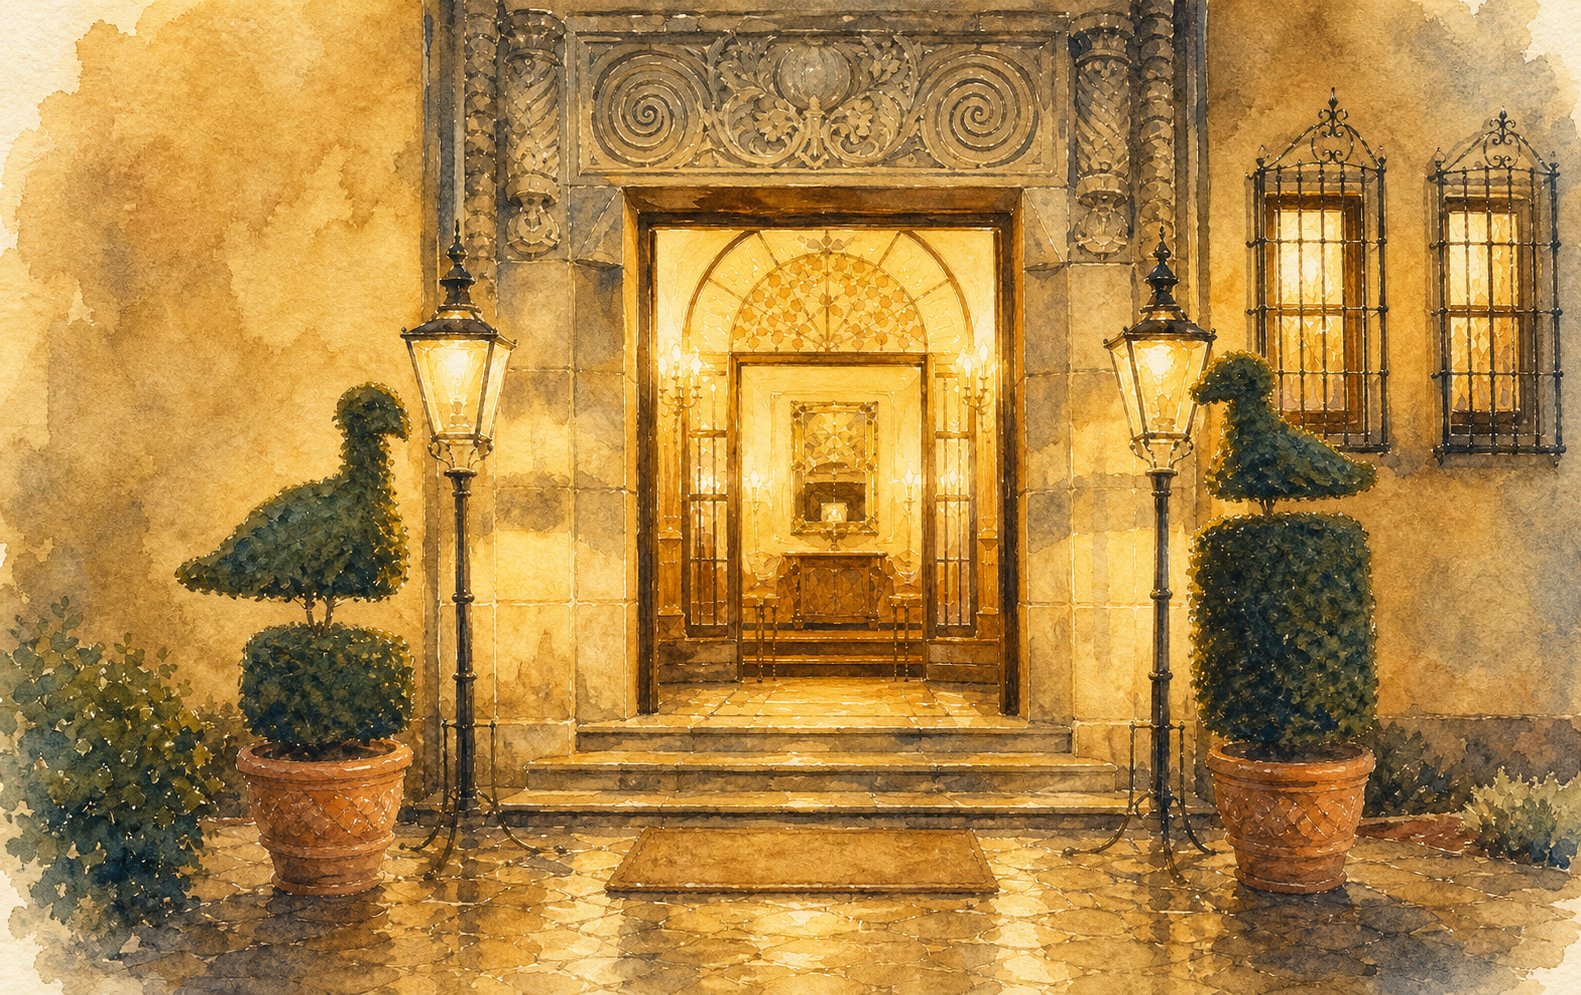
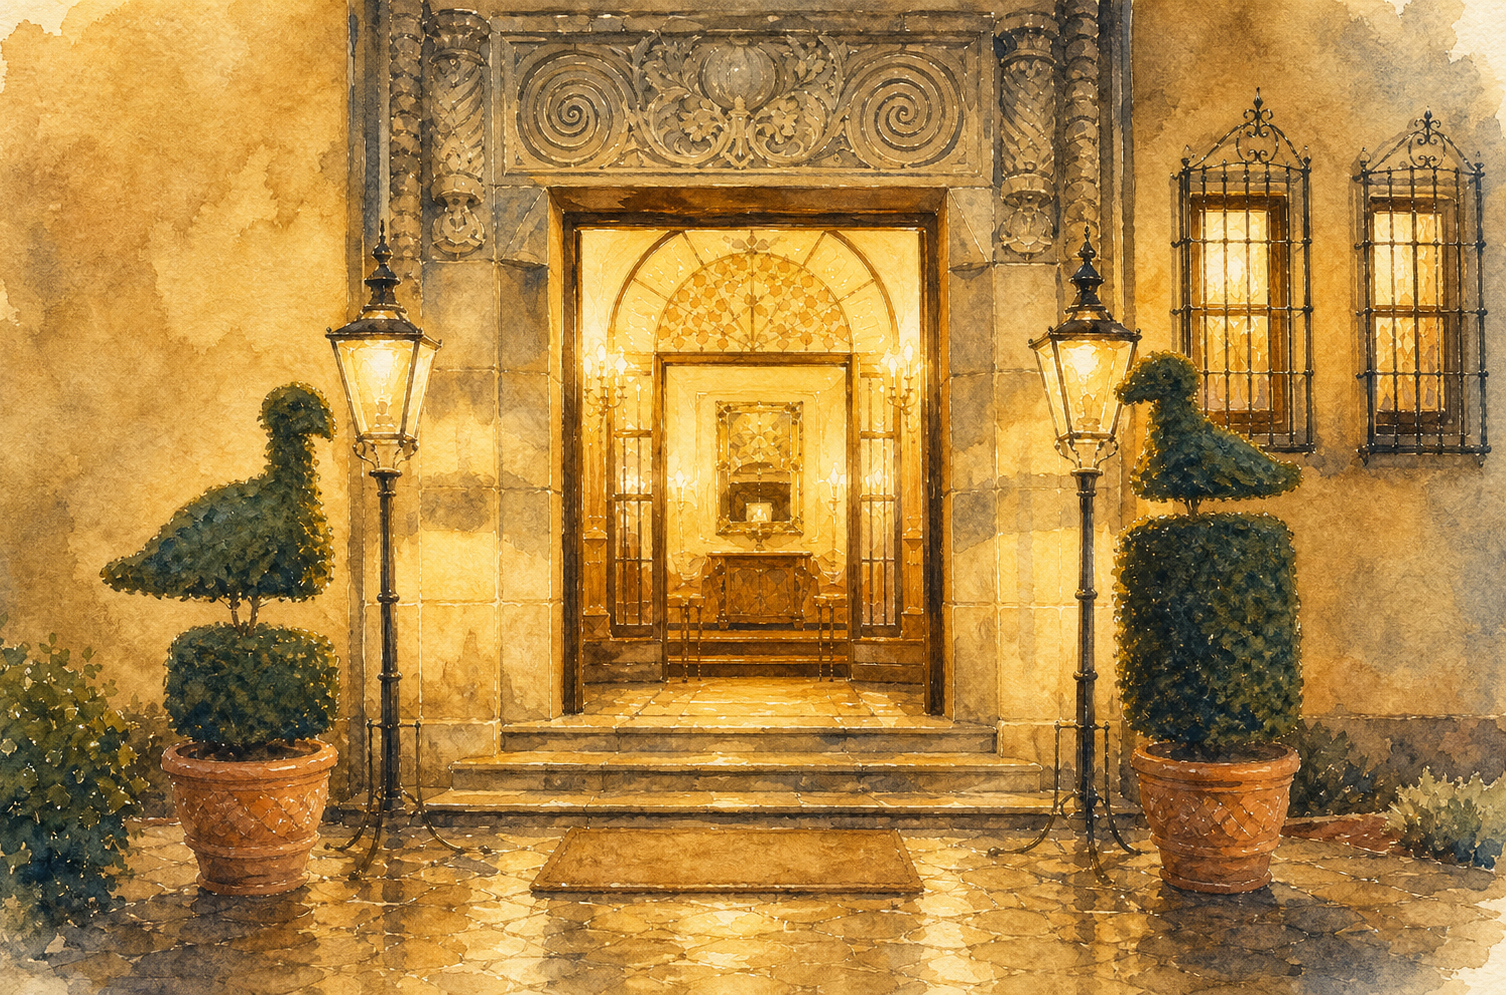
デザイン調整: 開封演出・Hero水彩の中央化・文字コントラスト・レスポンシブ等 (#12)
* style: 招待文(invitation-jp)の文字色をAbout Us本文と同じink-softに統一

* feat: 開封後のHero背景を小笠原伯爵邸エントランスの水彩に繋げ下端でベージュへグラデーション

- 封筒を開くと窓から見える伯爵邸エントランス水彩(venue-watercolor-bg)を
  そのまま Hero の背景として引き継ぎ、封筒の中の情景が招待状へ続く演出に。
  下端は--paperへグラデーションで溶かし続くセクションのベージュへ自然に接続
- settle()のcanvas焼き込み(letter-sheet固定)を廃止しCSS背景に委譲

* feat: 紙の展開モーションを廃止し開封から水彩背景へシームレス接続 / 水彩を減光

- 開封は「フラップ全開(裏地=伯爵邸水彩が見える)+カメラ引き」までで完了とし、
  以降の羊皮紙スライド/展開モーション(drawLetter)を一切描画しない(REVEAL_MS導入)
- settle()はその開封完了フレーム(封筒に水彩が見える状態)を保持したまま、
  オーバーレイをズーム(scale1.14)しつつ緩やかにフェードし hero の水彩へクロスフェード。
  ベージュの紙が水彩へ切り替わるのではなく、同じ伯爵邸の情景が招待状へ続くように接続
- .hero の水彩を減光(ベージュのベールを0.12→0.42等に強め、玄関をやわらかく)

* feat: 開封を「紙が出る」までにし展開(紙を開く)を廃止、そのまま招待状へ接続

- 封筒からの紙のスライド排出(S1=50%)は残し、以降の三つ折り展開/全画面充填は
  再生しない(REVEAL_MSを0.38→0.50に)。紙が出た直後のフレームを保持して hero へ
  ズーム付きクロスフェードし、出てきた紙とシルク(veil)がそのまま招待状へ繋がる
- シルク着地(pLand)を排出完了(0.40→0.50)に同期させ、クロスフェードで veil が重なるように

* polish: 紙排出後の招待状への繋ぎを滑らかに / シルクの動きを穏やかに

- シルク着地を短い窓(0.40-0.50)+回転0.09から、長い窓(0.34-0.50)のease-in-out+
  回転0.03へ。紙に乗って上がりながら減速着地し、激しく飛ぶ動きを解消
- 開封→招待状のクロスフェードをブルーム化(scale1.14→1.26 / ease-out 1.5s /
  transform-origin 50% 44%)し、ブワッと広がって静かに収まる動きに

* polish: 紙が出ていく動作を延長し上へ抜けつつ薄れて水彩へ溶かす

- スライドを延長(S1 0.50→0.60)、引き出し量を増(0.42→0.86*envH)し、紙が封筒から
  上へ大きく長く出ていくように。消滅が早い問題を解消
- 終盤(0.50→0.60)で paperAlpha により紙(パネル+影)をフェードし、上へ抜ける移動と
  重ねて「消える」でなく「抜けて薄れて水彩へ溶ける」動きに
- REVEAL_MSを0.50→0.60へ。シルク着地窓も0.20に広げ穏やかに定位置へ

* revert+feat: 開封モーションを元通り(紙が出る→開く)に戻し、開いた後の背景を伯爵邸フロント水彩に / 文字コントラスト改善・日付拡大
[…]

diff --git a/index.html b/index.html
@@ -230,7 +230,7 @@
   .opening-overlay.is-opening {
     pointer-events: none;
   }
-  /* 演出終了: 紙(canvas)→紙(hero背景)へソフトに受け渡す */
+  /* 演出終了: 開いた紙(canvas)から hero の水彩背景へソフトにクロスフェードで受け渡す */
   .opening-overlay.is-fading {
     opacity: 0;
     transition: opacity 0.6s ease;
@@ -368,12 +368,20 @@
      HERO — Camila Blaire layout (5 photos, exact match)
      ==================================================== */
   .hero {
-    /* 開封演出で開いた羊皮紙をそのまま背景として引き継ぐ */
+    /* 開封時に封筒の窓から見えた小笠原伯爵邸エントランスの水彩を、そのまま Hero の
+       背景として引き継ぐ(封筒の中の情景が招待状へ続くイメージ)。下端は羊皮紙のベージュ
+       (--paper)へグラデーションで溶かし、続くセクションのベージュへ自然に接続する */
     background:
-      linear-gradient(180deg, rgba(255, 250, 235, 0.30) 0%, rgba(255, 246, 224, 0.22) 52%, rgba(239, 221, 184, 0.18) 100%),
-      url('images/opening-assets/letter-sheet.png');
+      linear-gradient(180deg,
+        rgba(239, 226, 198, 0.42) 0%,
+        rgba(239, 226, 198, 0.36) 42%,
+        rgba(239, 226, 198, 0.74) 76%,
+        var(--paper) 94%),
+      url('images/venue-watercolor-bg.png');
     background-size: cover;
-    background-position: center;
+    background-position: center 24%;
+    background-repeat: no-repeat;
+    background-color: var(--paper);
     padding: clamp(36px, 4vw, 60px) clamp(24px, 5vw, 64px) clamp(40px, 4.5vw, 68px);
     text-align: center;
     overflow: hidden;
@@ -558,6 +566,23 @@
     position: relative;
     z-index: 2;
   }
+  /* 水彩背景の上でも文字が読めるよう、キャプション背後に羊皮紙色のやわらかな
+     スクリム(縁は透明へフェード)を敷いて視認性を確保する(ハードな箱にはしない) */
+  .hero-caption::before {
+    content: "";
+    position: absolute;
+    left: 50%;
+    top: 50%;
+    transform: translate(-50%, -50%);
+    width: min(760px, 94vw);
+    height: 176%;
+    z-index: -1;
+    pointer-events: none;
+    background: radial-gradient(ellipse 60% 58% at 50% 50%,
+      rgba(245, 237, 216, 0.88) 0%,
+      rgba(245, 237, 216, 0.66) 44%,
+      rgba(245, 237, 216, 0) 80%);
+  }
   .hero-caption-text {
     font-family: var(--serif);
     font-style: italic;
@@ -565,32 +590,36 @@
     font-size: clamp(18px, 1.9vw, 23px);
     color: var(--ink);
     line-height: 1.45;
+    text-shadow: 0 1px 10px rgba(245, 237, 216, 0.75);
   }
   .hero-caption-sig {
     font-family: var(--script);
     font-weight: 400;
     font-size: clamp(22px, 2.4vw, 32px);
-    color: var(--gold);
+    color: #856a38;               /* gold を少し深めて水彩上での視認性を上げる */
     margin-top: 10px;
     line-height: 1;
     letter-spacing: 0.01em;
+    text-shadow: 0 1px 10px rgba(245, 237, 216, 0.7);
   }
   .hero-date {
     margin-top: 22px;
     font-family: var(--sans);
-    font-size: 10px;
-    letter-spacing: 0.55em;
+    font-size: 11px;
+    letter-spacing: 0.5em;
     text-transform: uppercase;
-    color: var(--muted);
+    color: var(--ink-soft);       /* muted→ink-soft でコントラスト確保 */
     line-height: 2;
+    text-shadow: 0 1px 8px rgba(245, 237, 216, 0.65);
   }
   .hero-day {
-    margin-top: 12px;
+    margin-top: 16px;
     font-family: var(--serif);
     font-style: italic;
-    font-size: clamp(24px, 6vw, 34px);
+    font-size: clamp(36px, 8.5vw, 54px);   /* 大きく */
     letter-spacing: 0.08em;
     color: var(--ink);
+    text-shadow: 0 1px 12px rgba(245, 237, 216, 0.78);
   }
 
   @media (max-width: 880px) {
@@ -719,6 +748,21 @@
   .fph-2 { top: 8%;   right: 0;  width: 44%; aspect-ratio: 3 / 4; background-image: url('images/aboutus-4.jpg'); background-position: 55% 38%; filter: saturate(0.85) contrast(1.05); z-index: 2; }
   .fph-3 { top: 62%;  left: 5%;  width: 56%; aspect-ratio: 3 / 2; background-image: url('images/aboutus-2.jpg'); z-index: 3; }
   .fph-4 { top: 55%;  right: 3%; width: 36%; aspect-ratio: 3 / 4; background-image: url('images/aboutus-3.jpg'); z-index: 4; }
+  /* About us の4枚は、セクションが現れたら1枚ずつ時間差でフェードインさせる。
+     ホバーの transition(filter/box-shadow)とは別に animation で出すことで干渉を防ぐ */
+  .feature-image .fph { opacity: 0; }
+  .feature-image.visible .fph { animation: fphIn 1.05s ease both; }
+  .feature-image.visible .fph-1 { animation-delay: 0.08s; }
+  .feature-image.visible .fph-2 { animation-delay: 0.42s; }
+  .feature-image.visible .fph-3 { animation-delay: 0.76s; }
+  .feature-image.visible .fph-4 { animation-delay: 1.10s; }
+  @keyframes fphIn {
+    from { opacity: 0; transform: translateY(22px) scale(0.985); }
+    to   { opacity: 1; transform: translateY(0) scale(1); }
+  }
+  @media (prefers-reduced-motion: reduce) {
+    .feature-image .fph, .feature-image.visible .fph { animation: none; opacity: 1; }
+  }
   .feature-image-tag, .feature-image-caption { z-index: 6; }
   /* 散らし構成では羊皮紙の上に乗るため、白抜きではなくインク/ゴールドで */
   .feature-image-caption {
@@ -807,7 +851,7 @@
     font-family: var(--jp);
     font-size: 13px;
     line-height: 2.1;
-    color: var(--muted);
+    color: var(--ink-soft);
     max-width: 500px;
     margin: 0 auto;
     letter-spacing: 0.05em;
@@ -1221,6 +1265,12 @@
     line-height: 1;
     letter-spacing: 0.01em;
   }
+  /* スマホではフッターの高さを詰める(定義の後ろに置き上書きを効かせる) */
+  @media (max-width: 520px) {
+    footer { padding: 76px 24px 44px; }
+    .footer-rule { height: 44px; margin-bottom: 22px; }
+    .footer-place { margin-bottom: 26px; }
+  }
 </style>
 </head>
 <body>
@@ -1359,8 +1409,8 @@
           1927年、旧小倉藩主・小笠原伯爵によって建てられた
           スパニッシュ様式の洋館。
           石造りのアーチと中庭、緑に包まれたテラス。
-          東京の真ん中とは思えない静けさのなかで、
-          夕暮れから夜にかけてのささやかな宴を開きます。
+          日常の喧騒を忘れさせるこの特別な場所で、
+          心地よいひとときをご一緒できればと存じます。
         </p>
 
         <dl class="venue-facts">
@@ -1522,7 +1572,7 @@
 <footer>
   <div class="footer-content">
     <div class="footer-rule"></div>
-    <div class="footer-date">19<span class="dot">·</span>09<span class="dot">·</span>2026</div>
+    <div class="footer-date">2026<span class="dot">.</span>9<span class="dot">.</span>19</div>
     <div class="footer-place">Ogasawara House · Tokyo</div>
     <div class="footer-thanks">with all our love.</div>
   </div>
@@ -1957,7 +2007,7 @@
         }
         ctx.save();
         ctx.translate(fx + fw / 2, fy + fh / 2);
-        ctx.rotate(-0.09 * (1 - pLand)); // 出てくる間だけ僅かに傾け、着地で水平に
+        // シルクは常に水平のまま出す(傾けない)
         ctx.globalAlpha = silkAlpha;
         ctx.shadowColor = 'rgba(60, 46, 28, 0.22)';
         ctx.shadowBlur = 26;
@@ -2103,35 +2153,23 @@
         renderFrame(0);
       });
 
-      // 演出終了: 開いた紙を hero の背景(同じ紙)へ受け渡し、
-      // 既存トップビューの要素を紙の上に書き込むように出現させる
+      // 演出終了: 「紙が出る→開く」モーションはそのまま(drawLetter は不変)。
+      // 開いた後の背景は canvas(letter-sheet)を焼き込まず CSS の .hero 水彩へ委ねる。
+      // ポイント: シルクが中央にセットされる(≒紙が全画面になる 92%)のと "同時" に水彩背景が
+      // 見えているよう、フェード(0.6s)が丁度その時点で終わるよう少し早めにクロスフェードを開始する。
+      // canvas はオーバーレイが隠れるまで描画を続けるので、紙の充填・シルクの中央化はそのまま完了する。
+      const FADE_START = Math.round(0.86 * D);   // 0.86*D + 0.6s ≈ 0.92*D(シルク中央化)でフェード完了
       let settled = false;
-      const settle = () => {
+      const startCrossfade = () => {
         if (settled) return;
         settled = true;
-        // 開いた紙の最終フレームを hero の背景へ。
-        // シルクは含めない: 実機Safariでは cover スケールのズレで
-        // CSSのシルク画像と二重(ゴーストのレース+黒い影)になるため、
-        // シルクは .veil-center の img 一本に統一する
-        try {
-          hideSilk = true;
-          renderFrame(D);
-          const hero = document.querySelector('.hero');
-          if (hero) {
-            hero.style.backgroundImage = 'url(' + canvas.toDataURL('image/jpeg', 0.92) + ')';
-            hero.style.backgroundSize = 'cover';
-            hero.style.backgroundPosition = 'center';
-          }
-        } catch (err) { /* 失敗時は CSS の letter-sheet 背景のまま */ }
-        hideSilk = false;
-        renderFrame(D); // フェードアウト中の canvas にはシルクを残して連続性を保つ
         document.body.classList.add('hero-enter');
         runHeroSequence();
         overlay.classList.add('is-fading');
         window.setTimeout(() => {
           overlay.hidden = true;
           document.body.classList.remove('opening-active');
-        }, 650);
+        }, 640);
       };
 
       const open = () => {
@@ -2140,12 +2178,13 @@
         overlay.classList.add('is-opening');
         const t0 = performance.now();
         const tick = now => {
-          const done = renderFrame(now - t0);
-          if (done) { settle(); return; }
-          requestAnimationFrame(tick);
+          const elapsed = now - t0;
+          renderFrame(Math.min(elapsed, D));            // 紙・シルクは通常どおり最後まで描画
+          if (elapsed >= FADE_START) startCrossfade();  // 背景(水彩)を先に出し、シルク中央と同時に見せる
+          if (!overlay.hidden && elapsed < D + 800) requestAnimationFrame(tick);
         };
         requestAnimationFrame(tick);
-        window.setTimeout(settle, D + 1800);
+        window.setTimeout(startCrossfade, D + 1800);    // 保険(rAF が絞られても必ず遷移)
       };
 
       overlay.addEventListener('click', open);